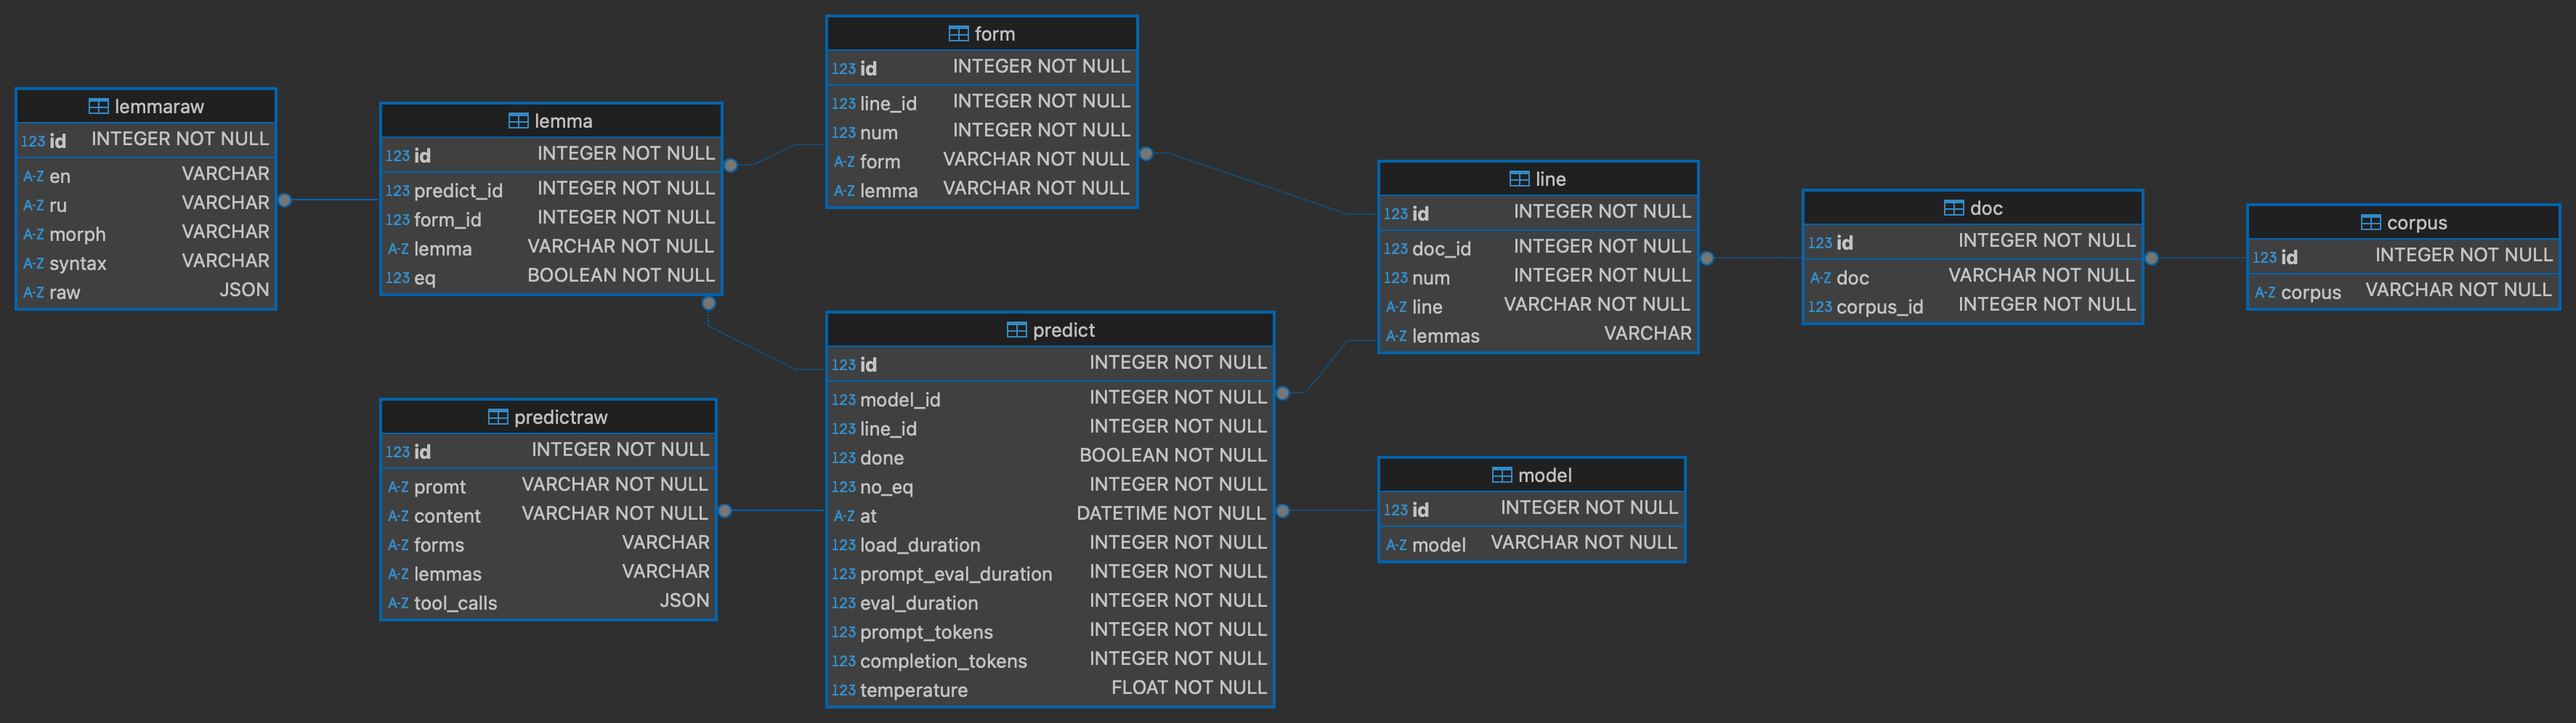
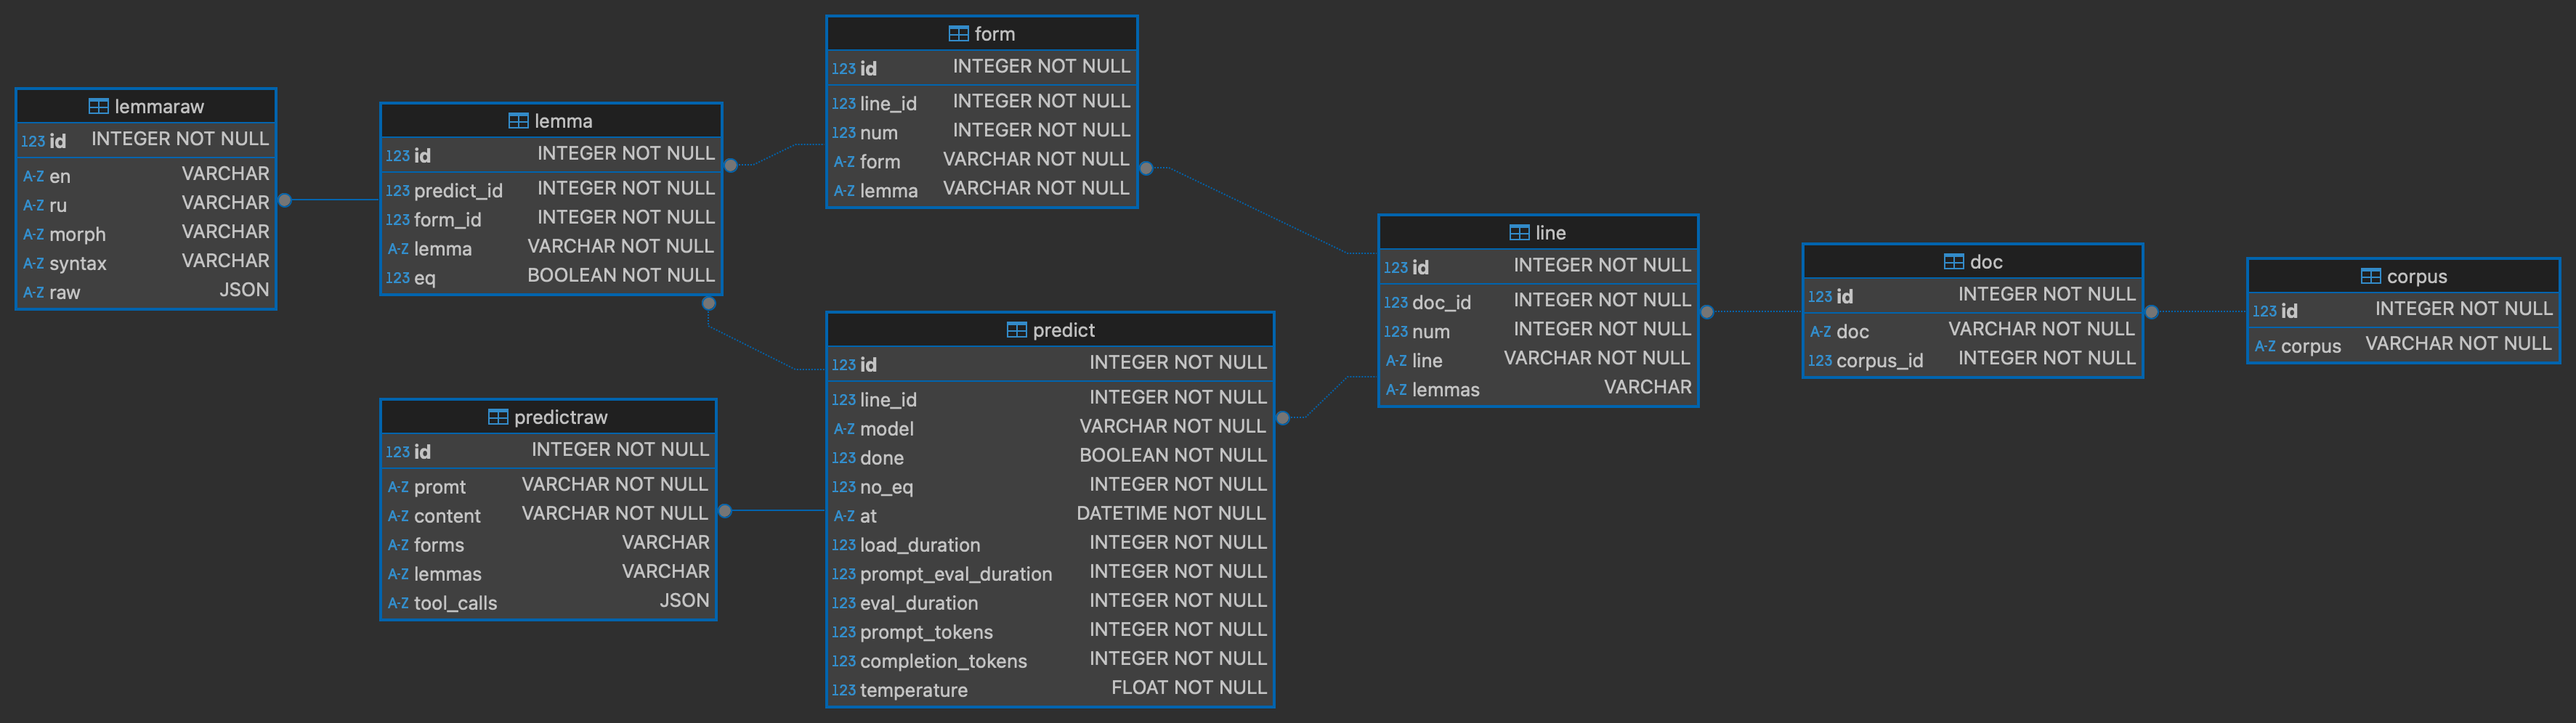
delete model_id

diff --git a/db.py b/db.py
@@ -40,17 +40,18 @@ class Form(SQLModel, table=True):
   lemmas: List["Lemma"] = Relationship(back_populates="form")
   __table_args__ = (UniqueConstraint("line_id", "num", name="uq_line_num"),)
 
-class Model(SQLModel, table=True):
-  id: int = Field(default=None, primary_key=True, nullable=False)
-  model: str
-  predictions: List["Predict"] = Relationship(back_populates="model")
+# class Model(SQLModel, table=True):
+#   id: str = Field(primary_key=True, nullable=False)
+#   # model: str
+#   predictions: List["Predict"] = Relationship(back_populates="model")
 
 class Predict(SQLModel, table=True):
   id: int = Field(default=None, primary_key=True, nullable=False)
-  model_id: int = Field(foreign_key="model.id")
   line_id: int = Field(foreign_key="line.id")
-  model: Model = Relationship(back_populates="predictions")
   line: Line = Relationship(back_populates="predictions")
+  # model: Model = Relationship(back_populates="predictions")
+  # model_id: int = Field(foreign_key="model.id")
+  model: str
   done: bool
   no_eq: int
   at: datetime # = Field(default_factory=datetime.utcnow)
@@ -137,8 +138,8 @@ class DB():
       s.add(Line(id=1, doc_id=1, num=1, line="Mæg gehyran se ðe", lemmas="mag gehyran se þe"))
       s.add(Form(id=1, line_id=1, num=1, form="Mæg", lemma="mag"))
       s.add(Form(id=4, line_id=1, num=4, form="ðe", lemma="þe"))
-      s.add(Model(id=1, model="mistral:7b"))
-      s.add(Predict(id=1, model_id=1, line_id=1, done=True, no_eq=0, temperature=0.0, at=datetime.fromisoformat('2025-01-03T10:23:28.830015Z'),
+      # s.add(Model(id=1, model="mistral:7b"))
+      s.add(Predict(id=1, line_id=1, model="mistral:7b", done=True, no_eq=0, temperature=0.0, at=datetime.fromisoformat('2025-01-03T10:23:28.830015Z'),
         load_duration=21163667, prompt_eval_duration=261000000, eval_duration=551000000, prompt_tokens=30, completion_tokens=31))
       s.add(Lemma(id=1, predict_id=1, form_id=1, lemma="mag", eq=True))
       s.add(LemmaRaw(id=1, en="can", ru="может", morph="pronoun", syntax="subject", 
@@ -159,7 +160,7 @@ class DB():
 
 if __name__ == "__main__":
   db = DB()
-  # db.init()
+  # db.init(1)
   # db.add_test()
   db.stat()
   # print(db.df(Corpus))

diff --git a/d/llm/llm.md b/d/llm/llm.md
@@ -19,37 +19,37 @@ uv add --dev pip
 uv add llama-index-llms-ollama
 
 ollama start
-# США
-# Meta
+# США 1
+# Meta 11
 ollama run llama3.2:1b
 ollama run llama3.2:3b
 ollama run llama3.1:8b 
 ollama run llama3.3:70b
 
-# Google
+# Google 12
 ollama run gemma2:2b
 ollama run gemma2:9b
 ollama run gemma2:27b 
 
-# Microsoft
+# Microsoft 13
 ollama run phi3.5:3.8b
 ollama run phi3:14b
 
-## Канада - Cohere
+## Франция - Mistral 20
+ollama run mistral:7b
+ollama run mistral-nemo:12b
+ollama run mistral-small:22b
+
+## Канада - Cohere 30
 ollama run command-r:35b
 
-## Китай - Alibaba
+## Китай - Alibaba 40
 ollama run qwen2.5:0.5b
 ollama run qwen2.5:1.5b
 ollama run qwen2.5:3b 
 ollama run qwen2.5:14b
 ollama run qwen2.5:32b
 ollama run qwen2.5:72b
-
-## Франция - Mistral
-ollama run mistral:7b
-ollama run mistral-nemo:12b
-ollama run mistral-small:22b
 
 brew install sqlite3_analyzer
 sqlite3_analyzer d/llm/llm.db
